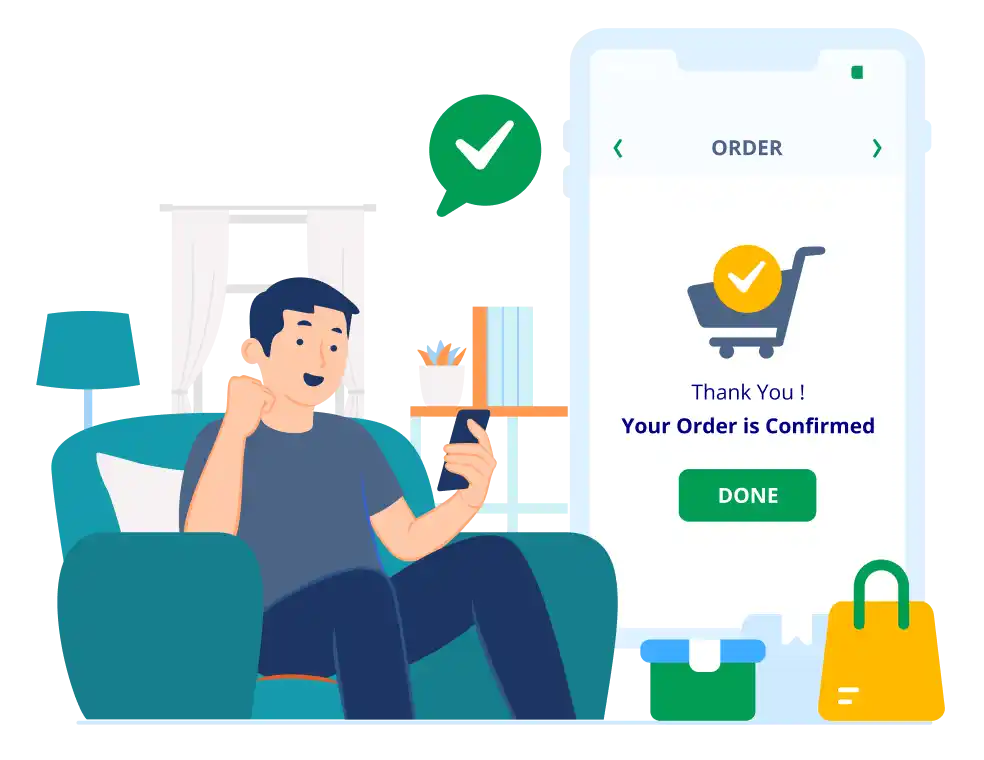
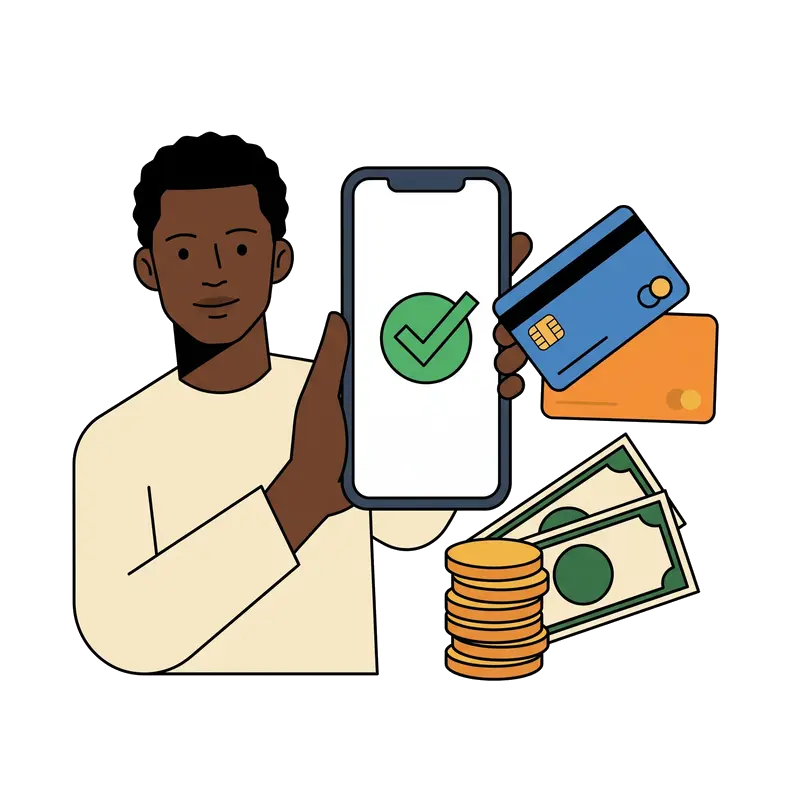
Noor onboarding illustrations and texts; OTP login no longer blocked by services server
- Replace the generic onboarding slides with Noor illustrations (all
  services in one app, Wave / Orange Money / cash payment, delivery in
  Touba and Senegal) and rewrite their texts in fr, en, ar, wo (bn, es
  use English).
- Fix the sign-in greeting ("Bienvenue sur Noor !").
- OTP login: the extra OTP request to the services server is now
  optional (8 s timeout, errors ignored), so the code screen opens as
  soon as the main login has sent the SMS.

Claude-Session: https://claude.ai/code/session_01LxPZt8hgcuG7k6HfGBHq94

diff --git a/lib/features/auth/widgets/sign_in/sign_in_view.dart b/lib/features/auth/widgets/sign_in/sign_in_view.dart
@@ -297,24 +297,28 @@ class _SignInViewState extends State<SignInView> {
                 alreadyInApp: widget.backFromThis)
             .then((response) async {
           if (response.isSuccess) {
-            log('trying to send otp for verification screen from main');
-            ServiceAuthController serviceAuthController =
-                Get.find<ServiceAuthController>();
-            demandium_response.ResponseModel responseModel =
-                await serviceAuthController
-                    .sendOtpForVerificationScreenFromMain(
-                        identity: numberWithCountryCode,
-                        identityType: 'phone',
-                        checkUser: 0);
-            log('response model from send otp for verification screen from main: ${responseModel.content?['otp']}');
-
-            if (responseModel.isSuccess ?? false) {
-              _processOtpSuccessSetup(
-                  response, authController, phone, countryDialCode,
-                  serviceOtp: responseModel.content?['otp']?.toString());
-            } else {
-              showCustomSnackBar(responseModel.message ?? 'otp_send_failed'.tr);
+            // Noor has sent the SMS: open the code screen now. The services
+            // module (service.ocass.net) also wants its own code; asking it
+            // is optional, so a slow or unreachable services server never
+            // stops the customer from signing in to Noor.
+            String? serviceOtp;
+            try {
+              final demandium_response.ResponseModel responseModel =
+                  await Get.find<ServiceAuthController>()
+                      .sendOtpForVerificationScreenFromMain(
+                          identity: numberWithCountryCode,
+                          identityType: 'phone',
+                          checkUser: 0)
+                      .timeout(const Duration(seconds: 8));
+              if (responseModel.isSuccess ?? false) {
+                serviceOtp = responseModel.content?['otp']?.toString();
+              }
+            } catch (e) {
+              log('services OTP skipped: $e');
             }
+            _processOtpSuccessSetup(
+                response, authController, phone, countryDialCode,
+                serviceOtp: serviceOtp);
           } else {
             showCustomSnackBar(response.message);
           }
